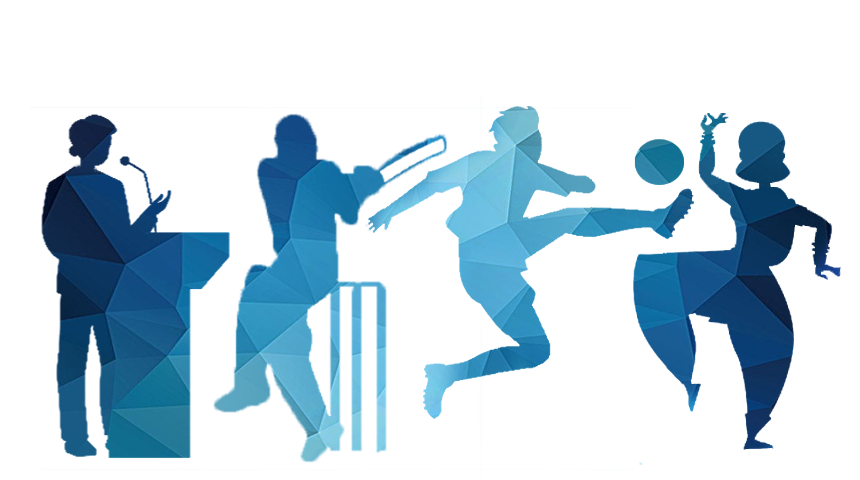
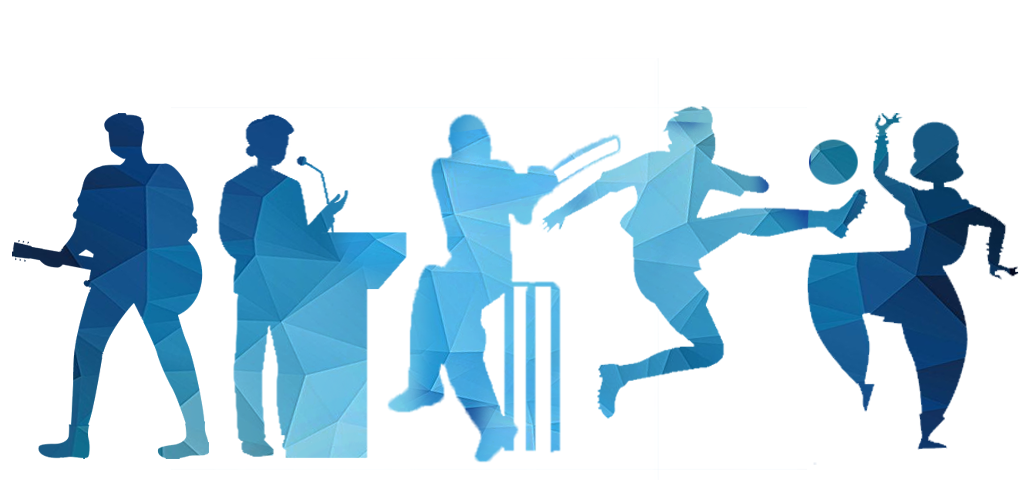
changes

diff --git a/style.css b/style.css
@@ -216,7 +216,7 @@ body {
 .landing-illustration {
   height: 20vh;
   scale: 1.8;
-  translate: 0 5vh;
+  translate: -3.8vw 5vh;
   justify-self: flex-end;
 }
 
@@ -245,7 +245,7 @@ body {
 
 .head-branding-part {
   position: absolute;
-  transform: translateY(-3vh);
+  transform: translateY(-2vh);
   width: 44vw;
 }
 
